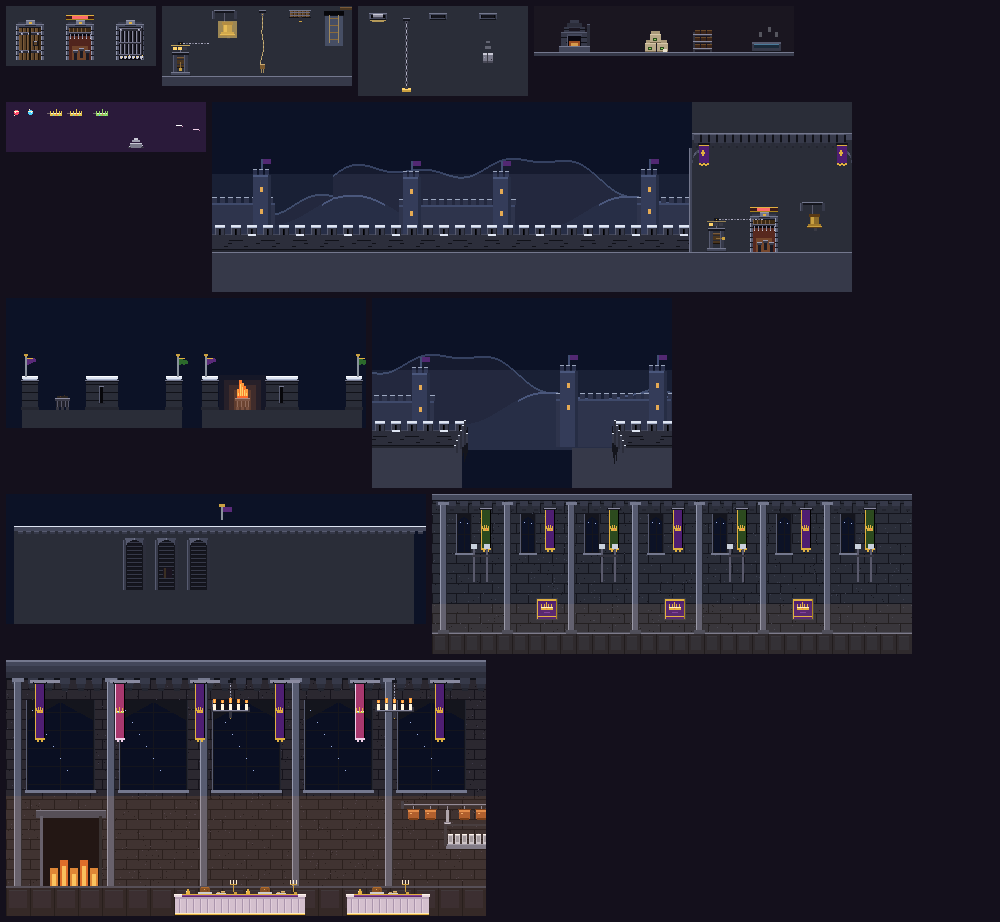
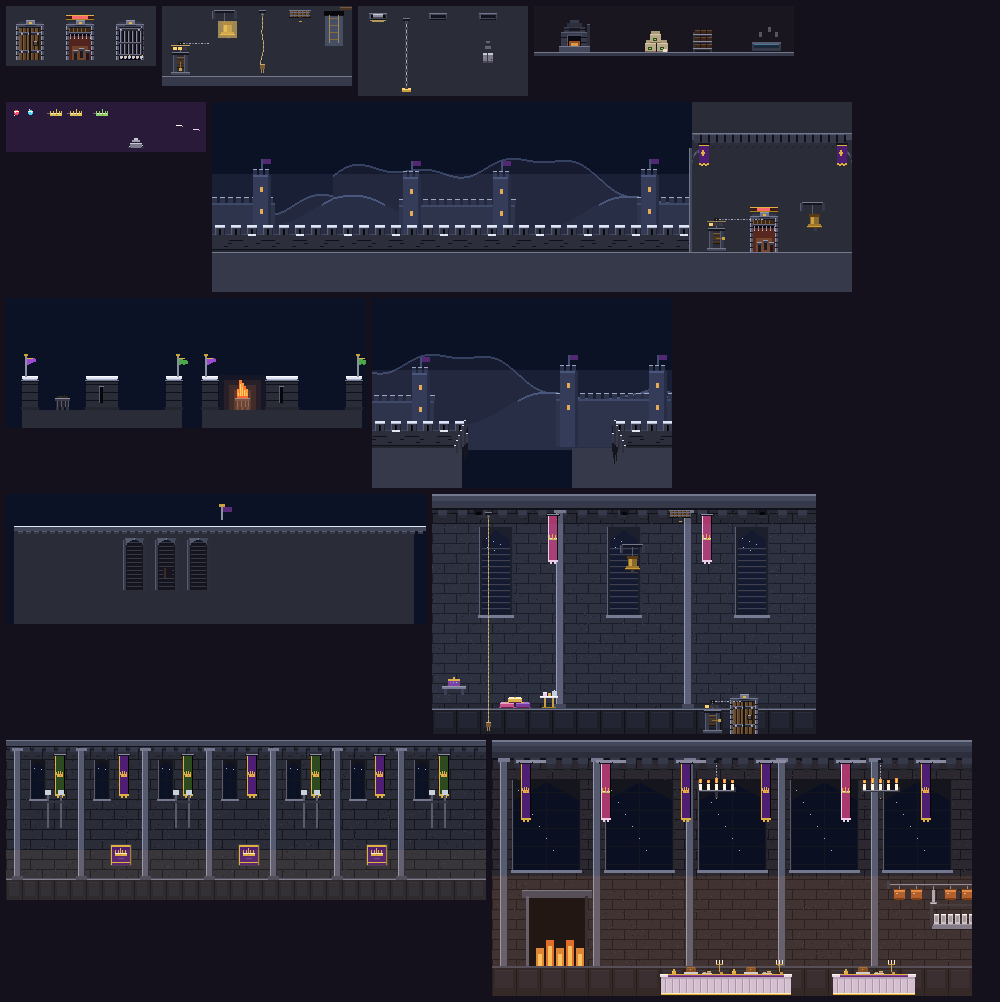
hc3art: THE BELFRY CHAMBER - her room painted as a bell-chamber (louvred openings, corbelled vault, pulley holes, rose drapes with the tiara, cushions + tea table, gem shelf) instead of the keep hall's tapestries; brighter tower pennants

diff --git a/src/redraw/hc3_art.js b/src/redraw/hc3_art.js
@@ -167,7 +167,7 @@ export function drawTowerTops(g, cx, cy, VW, time, lit) {
     const pole = (a, col, flip) => { const x = X(a) + (flip ? 11 : 3), w = Math.sin(time * 2.6 + a) * 1.5; R(g, x, top - 22, 2, 21, '#8a919c'); R(g, x, top - 22, 2, 1, '#c9a040'); R(g, x - 1, top - 24, 4, 2, '#c9a040');
       for (let i = 0; i < 9; i++) R(g, x + 2 + i, top - 20 + Math.round(w * i / 9) + (i >> 2), 1, 7 - (i >> 1), i & 1 ? col : col);   // the pennant, tapering
       R(g, x + 2, top - 20, 6, 1, '#e0b040'); };
-    pole(T.x0, '#5a2a7a', false); pole(T.x1, '#2c6a2c', true);
+    pole(T.x0, '#9a4ad0', false); pole(T.x1, '#4aa84a', true);
     const bx = X(T.x0 + 2) + 8;                                                                                   // the signal brazier in the crenel
     R(g, bx - 6, floor - 3, 3, 3, '#34343f'); R(g, bx + 4, floor - 3, 3, 3, '#34343f'); R(g, bx - 1, floor - 3, 3, 3, '#34343f');
     R(g, bx - 7, floor - 12, 15, 3, '#3a3a48'); R(g, bx - 7, floor - 12, 15, 1, '#8a8aa0'); R(g, bx - 6, floor - 9, 13, 6, '#22222c'); for (const dx of [-5, -1, 3, 6]) R(g, bx + dx, floor - 9, 1, 6, '#5a5a6c');
@@ -263,7 +263,33 @@ const bakeBanq = (w, h) => once('banq' + w + 'x' + h, () => { const [c, g] = can
       else { R(g, x - 2, ry + 6, 11, 9, '#a85a2c'); R(g, x - 2, ry + 6, 11, 2, '#e08a4c'); R(g, x - 3, ry + 5, 13, 1, '#6a3414'); R(g, x - 1, ry + 14, 9, 2, '#6a3414'); px(g, x, ry + 9, '#f0b070'); px(g, x + 1, ry + 9, '#f0b070'); } } }
   R(g, sv - 58, h - 90, 3, 20, '#34343f'); R(g, sv - 14, h - 90, 3, 20, '#34343f'); R(g, sv - 58, h - 92, 47, 2, '#34343f');
   return c; });
+// THE BELFRY CHAMBER (her room, the 'hchall' interior at 624): a bell-chamber of dark ashlar with a corbelled vault, tall louvred openings onto the snow-night, the vault pulley-holes the ropes run through, and
+// her touches - rose-and-gold drapes with the tiara, a heap of gilt cushions and a little tea table by her guardroom door, a gem-box on a stone shelf.
+const bakeBelfry = (w, h) => once('belfry' + w + 'x' + h, () => { const [c, g] = canvas(w, h);
+  ashlar(g, w, h, '#262833', '#383b4c', '#12131a', 624);
+  for (let y = 0; y < 14; y++) R(g, 0, y, w, 1, y < 2 ? S.f : y < 7 ? S.d : S.c); R(g, 0, 14, w, 2, S.mor);
+  for (let x = 6; x < w - 8; x += 20) { R(g, x, 16, 9, 5, S.c); R(g, x + 1, 21, 7, 3, S.b); R(g, x + 2, 24, 5, 2, S.a); }                                  // the vault's corbels
+  R(g, 0, h - 26, w, 26, '#1d1e28'); R(g, 0, h - 26, w, 2, S.d); R(g, 0, h - 25, w, 1, S.f); for (let x = 0; x < w; x += 24) { R(g, x, h - 24, 1, 24, S.mor); R(g, x + 3, h - 22, 18, 16, '#232532'); R(g, x + 3, h - 22, 18, 1, S.b); }
+  const n = 3, gap = Math.floor(w / n);
+  for (let i = 0; i < n; i++) { const wx = i * gap + (gap >> 1) - 14, wy = 36, ww = 28, wh = 84;                                                    // the tall louvred openings
+    R(g, wx - 3, wy - 3, ww + 6, wh + 4, S.dk); R(g, wx, wy, ww, wh, '#0a0f22');
+    for (let k = 0; k < ww / 2; k++) { const d = Math.round((ww / 2 - k) * 0.7); R(g, wx + k, wy, 1, d, S.dk); R(g, wx + ww - 1 - k, wy, 1, d, S.dk); }
+    for (let yy = wy + 18; yy < wy + wh; yy += 6) { R(g, wx, yy, ww, 2, '#16161f'); R(g, wx, yy, ww, 1, S.c); }                                      // the louvre boards (stone-grey slats: a bell-chamber's)
+    R(g, wx - 3, wy - 3, 1, wh + 4, S.e); R(g, wx + ww + 2, wy - 3, 1, wh + 4, S.a); R(g, wx - 4, wy + wh + 1, ww + 8, 3, S.f);
+    for (let k = 0; k < 5; k++) px(g, wx + 4 + (k * 7) % (ww - 8), wy + 8 + k * 3, '#9fb4e8'); }
+  for (let i = 0; i <= n; i++) { const px0 = i * gap - 4; if (px0 > 0 && px0 < w - 8) { R(g, px0, 16, 8, h - 42, S.e); R(g, px0, 16, 1, h - 42, S.g); R(g, px0 + 7, 16, 1, h - 42, S.a); R(g, px0 - 2, 16, 12, 3, S.f); R(g, px0 - 2, h - 30, 12, 4, S.d); } }   // pilasters between the openings
+  for (const cx2 of [Math.round(w * 0.12), Math.round(w * 0.5), Math.round(w * 0.86)]) { R(g, cx2 - 4, 16, 9, 5, S.dk); R(g, cx2 - 2, 18, 5, 3, '#06060a'); }   // the pulley holes in the vault
+  princessBanner(g, Math.round(w * 0.30), 20, 44); princessBanner(g, Math.round(w * 0.70), 20, 44);
+  const cy2 = h - 26;                                                                                                                                 // her cushions and tea table, by the door side (east)
+  const cu = (x, y, col, hi) => { R(g, x, y - 5, 14, 5, col); R(g, x + 1, y - 6, 12, 1, hi); R(g, x, y - 5, 14, 1, hi); R(g, x + 6, y - 6, 2, 1, '#e0b040'); px(g, x - 1, y - 1, col); px(g, x + 14, y - 1, col); R(g, x + 1, y - 1, 12, 1, '#6a1c44'); };
+  cu(68, cy2, '#c8508a', '#e8a0c8'); cu(84, cy2, '#7a3aa0', '#a870d0'); cu(76, cy2 - 5, '#e0b040', '#fff6c8');
+  R(g, 108, cy2 - 12, 18, 2, '#e8e0f0'); R(g, 108, cy2 - 12, 18, 1, '#ffffff'); R(g, 112, cy2 - 10, 2, 10, '#c9a040'); R(g, 120, cy2 - 10, 2, 10, '#c9a040'); R(g, 110, cy2 - 1, 14, 1, '#a8841c');
+  R(g, 111, cy2 - 16, 4, 4, '#f0d0e8'); R(g, 111, cy2 - 16, 4, 1, '#ffffff'); R(g, 116, cy2 - 15, 3, 3, '#e0b040'); R(g, 120, cy2 - 17, 5, 5, '#c9d1dc'); px(g, 122, cy2 - 18, '#ffffff');   // a teacup, a gilt cup, a silver pot
+  R(g, 10, cy2 - 22, 24, 3, S.f); R(g, 10, cy2 - 22, 24, 1, S.g); R(g, 12, cy2 - 19, 3, 6, S.c); R(g, 29, cy2 - 19, 3, 6, S.c);                           // a stone shelf with her gem-box (west)
+  R(g, 16, cy2 - 29, 12, 7, '#7a3aa0'); R(g, 16, cy2 - 29, 12, 2, '#e0b040'); R(g, 21, cy2 - 31, 2, 3, '#e0b040'); for (let k = 0; k < 3; k++) px(g, 18 + k * 3, cy2 - 26, ['#ff4a6a', '#4ad0ff', '#7aff8a'][k]);
+  return c; });
 export function paintRoom(g, st, sx, sy, w, h, tx0, ty0, time) {
+  if (st === 'hchall' && tx0 === K.BT[0] + 1) { g.drawImage(bakeBelfry(w, h), sx, sy); const k = 0.5 + 0.5 * Math.sin(time * 1.7); g.globalAlpha = 0.05 + 0.02 * k; g.fillStyle = '#9fb4ff'; g.fillRect(sx, sy + 30, w, h - 60); g.globalAlpha = 1; return true; }
   if (st !== 'royal') return false;
   if (tx0 === K.CAPT) { g.drawImage(bakeCapt(w, h), sx, sy); const k = 0.5 + 0.5 * Math.sin(time * 2.3); g.globalAlpha = 0.06 + 0.02 * k; g.fillStyle = '#ffb45c'; g.fillRect(sx, sy + h - 50, w, 50); g.globalAlpha = 1; return true; }
   if (tx0 === K.BANQ) { g.drawImage(bakeBanq(w, h), sx, sy);
